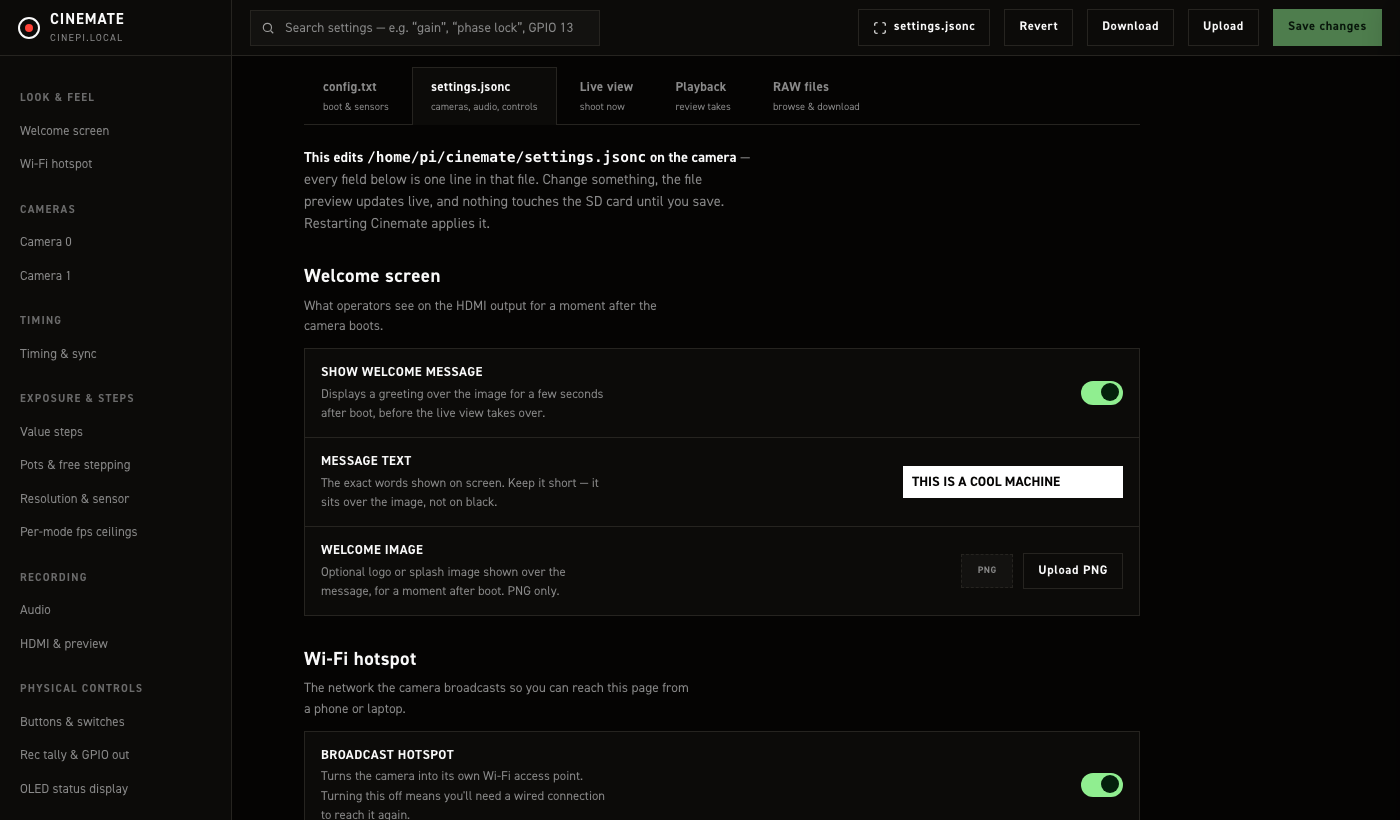
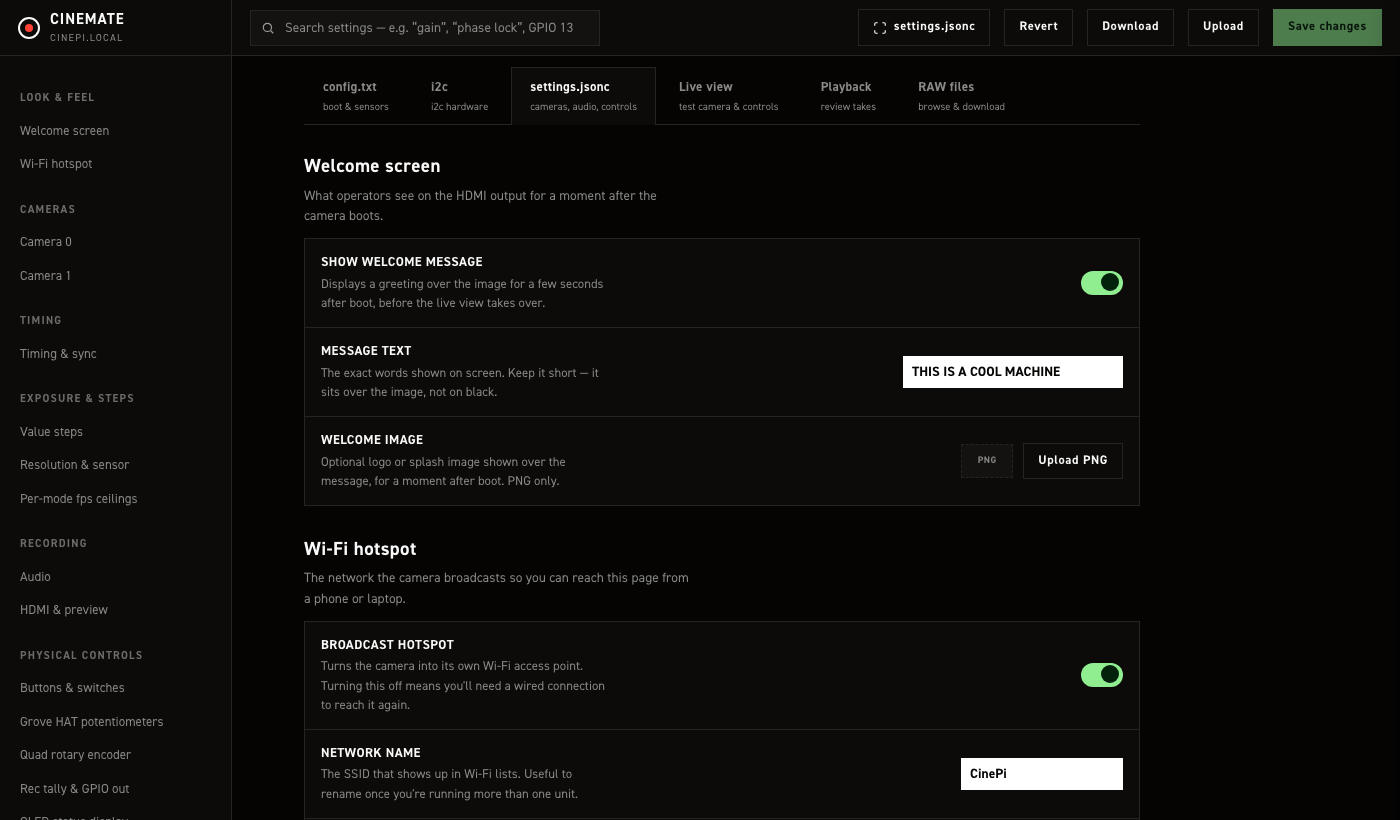
docs: refresh the settings-editor screenshots, and add the i2c pane
gui-overview.png retaken: six tabs with i2c between config.txt and
settings.jsonc, the rail's new Physical controls order (Buttons & switches,
Grove HAT potentiometers, Quad rotary encoder, Rec tally & GPIO out, OLED),
and the settings lede gone. The shot it replaces predated all of that.

gui-i2c.png is new, and is the pane against real hardware rather than a
mock-up: the Grove HAT answering at 0x08, four devices absent with the address
each was looked for, the Pi 5 note under the RTC row, and both clocks reading
the same second.

Captured over CDP from the running camera, read-only -- the driver clicks tabs
and never Save, Revert or Restart. Staged with the LFS filter fully disabled
(process= as well as clean=) and verified as real PNGs afterwards, since that
is how four images were turned into pointer files earlier in this work.

diff --git a/docs/settings-editor.md b/docs/settings-editor.md
@@ -100,6 +100,8 @@ Everything here needs a full reboot to take effect — restarting CineMate alone
 
 ## i2c tab
 
+![The i2c tab](images/gui-i2c.png)
+
 Shows which optional hardware is answering on the camera's I²C bus right now. Everything listed is
 optional — the camera records without any of it.
 
